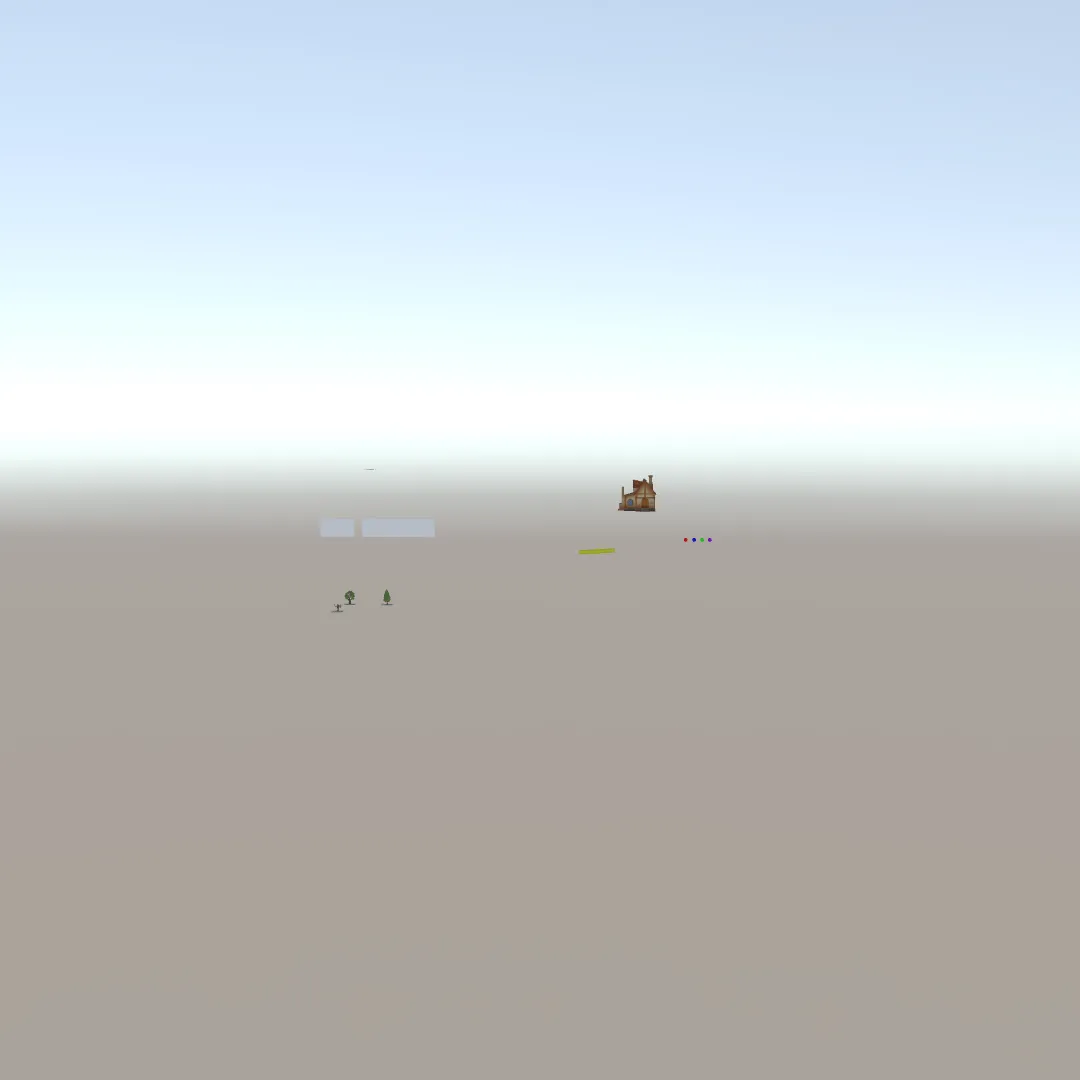
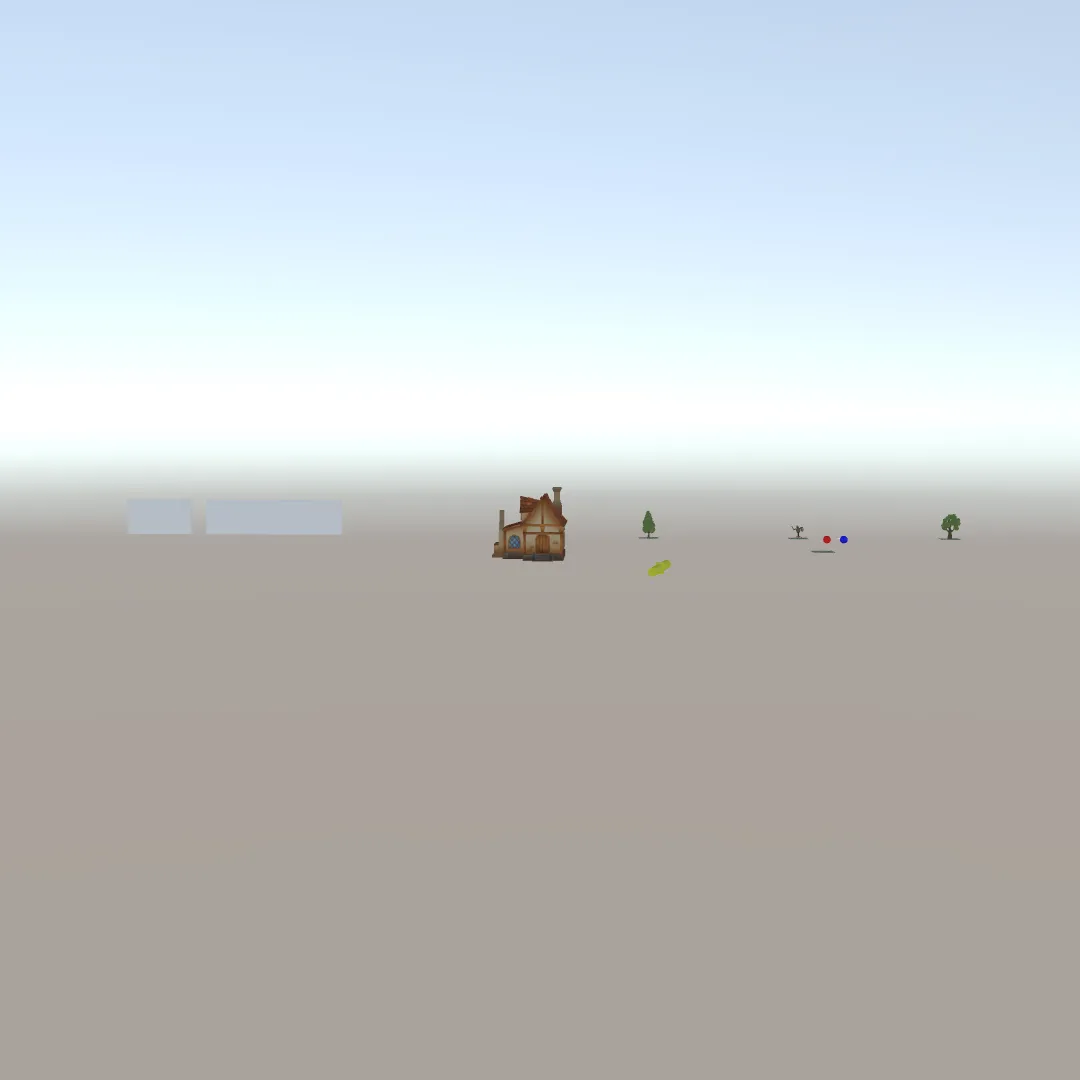
sync objects

diff --git a/AR Minigolf/Needle/newProject/src/scripts/syncObjects.ts b/AR Minigolf/Needle/newProject/src/scripts/syncObjects.ts
@@ -10,23 +10,29 @@ export class SyncObjects extends Behaviour {
     @serializable(Object3D)
     startRef?: Object3D
 
+    @serializable(Object3D)
+    object?: Object3D
+
+    @serializable(Number)
+    id: number = 0;
+
     async start() {
-        setInterval(this.getOtherObjectPositions.bind(this), 50);
+        setInterval(this.getOtherObjectPositions.bind(this), 1000);
     }
+
     private async getOtherObjectPositions() {
         const urlParams = new URLSearchParams(window.location.search);
         const ball = urlParams.get('ball');
         const sessionId = urlParams.get('sessionId') as string
 
         const objectPositions = await this.objectPositionClient.getObjectPositions();
-        let position = objectPositions.find(x => x.objectId === this.gameObject.id);
+        let position = objectPositions.find(x => x.name === this.id);
         if (!position && ball === 'red') {
             position = this.CreateObjectPosition(sessionId);
             this.objectPositionClient.createObjectPosition(position);
         }
 
         if (!position) {
-            console.error('Position not found for object', this.gameObject.id);
             return;
         }
 
@@ -39,20 +45,22 @@ export class SyncObjects extends Behaviour {
     }
 
     private CreateObjectPosition(sessionId: string) {
+        let { x, y, z } = GetTranslatedPosition(this.startRef!, this.object!.position.x, this.object!.position.y, this.object!.position.z);
+
         return new ObjectPosition(
             null,
-            this.gameObject.id,
+            this.id,
             sessionId,
-            this.gameObject.position.x,
-            this.gameObject.position.y,
-            this.gameObject.position.z,
-            this.gameObject.rotation.x,
-            this.gameObject.rotation.y,
-            this.gameObject.rotation.z);
+            x,
+            y,
+            z,
+            this.object!.rotation.x,
+            this.object!.rotation.y,
+            this.object!.rotation.z);
     }
 
     private changeDisplayedObjectPosition(xi: number, yi: number, zi: number) {
         let { x, y, z } = GetTranslatedPosition(this.startRef!, xi, yi, zi);
-        this.gameObject.position.set(x, y, z);
+        this.object!.position.set(x, y, z);
     }
 }

diff --git a/AR Minigolf/Needle/newProject/src/scripts/objectPosition/objectposition.model.ts b/AR Minigolf/Needle/newProject/src/scripts/objectPosition/objectposition.model.ts
@@ -1,7 +1,7 @@
 export class ObjectPosition {
     id: string | null;
     sessionId: string;
-    objectId: number;
+    name: number;
     x: number;
     y: number;
     z: number;
@@ -9,10 +9,10 @@ export class ObjectPosition {
     rotationY: number;
     rotationZ: number;
 
-    constructor(id: string | null, objectId: number, sessionId: string, x: number, y: number, z: number, rotationX: number, rotationY: number, rotationZ: number) {
+    constructor(id: string | null, name: number, sessionId: string, x: number, y: number, z: number, rotationX: number, rotationY: number, rotationZ: number) {
         this.id = id;
         this.sessionId = sessionId;
-        this.objectId = objectId;
+        this.name = name;
         this.x = x;
         this.y = y;
         this.z = z;

diff --git a/AR Minigolf/Needle/newProject/src/scripts/stabilize2.ts b/AR Minigolf/Needle/newProject/src/scripts/stabilize2.ts
@@ -8,6 +8,12 @@ export class Stabilize2 extends Behaviour {
     update(): void {
         if (!this.object) throw new Error('object is undefined');
 
+        const urlParams = new URLSearchParams(window.location.search);
+        const ball = urlParams.get('ball');
+
+        if (ball !== 'red') {
+            return;
+        }
         if (!this.object.visible) {
             return;
         }

diff --git a/AR Minigolf/Needle/newProject/src/scripts/stabilize.ts b/AR Minigolf/Needle/newProject/src/scripts/stabilize.ts
@@ -11,6 +11,14 @@ export class Stabilize extends Behaviour {
         if (!this.object.visible) {
             return;
         }
+
+        const urlParams = new URLSearchParams(window.location.search);
+        const ball = urlParams.get('ball');
+
+        if (ball !== 'red') {
+            return;
+        }
+
         this.gameObject.visible = true;
 
         const global = new Vector3();

diff --git a/AR Minigolf/Needle/newProject/src/scripts/objectPosition/objectposition.client.ts b/AR Minigolf/Needle/newProject/src/scripts/objectPosition/objectposition.client.ts
@@ -3,7 +3,7 @@ import { ObjectPosition } from './objectposition.model';
 
 
 export class ObjectPositionClient {
-    private url = `${DB_BASE_URL}/positions`;
+    private url = `${DB_BASE_URL}/objectPositions`;
 
     public ObjectPositionClient() {
         const urlParams = new URLSearchParams(window.location.search);

diff --git a/AR Minigolf/Needle/newProject/src/scripts/ballposition/ballposition.client.ts b/AR Minigolf/Needle/newProject/src/scripts/ballposition/ballposition.client.ts
@@ -3,7 +3,7 @@ import { BallPosition } from './ballposition.model';
 
 
 export class BallPositionClient {
-    private url = `${DB_BASE_URL}/objectPositions`;
+    private url = `${DB_BASE_URL}/positions`;
 
     public BallPositionClient() {
         const urlParams = new URLSearchParams(window.location.search);

diff --git a/AR Minigolf/Needle/newProject/src/constants.ts b/AR Minigolf/Needle/newProject/src/constants.ts
@@ -1,1 +1,1 @@
-export const DB_BASE_URL = 'http://192.168.128.108:8080';
+export const DB_BASE_URL = 'http://192.168.178.30:8080';

diff --git a/AR Minigolf/Assets/Needle/Components.codegen/SyncObjects.cs b/AR Minigolf/Assets/Needle/Components.codegen/SyncObjects.cs
@@ -8,6 +8,8 @@ namespace Needle.Typescript.GeneratedComponents
 	public partial class SyncObjects : UnityEngine.MonoBehaviour
 	{
 		public UnityEngine.GameObject @startRef;
+		public UnityEngine.GameObject @object;
+		public float @id = 0f;
 		public void start(){}
 	}
 }
